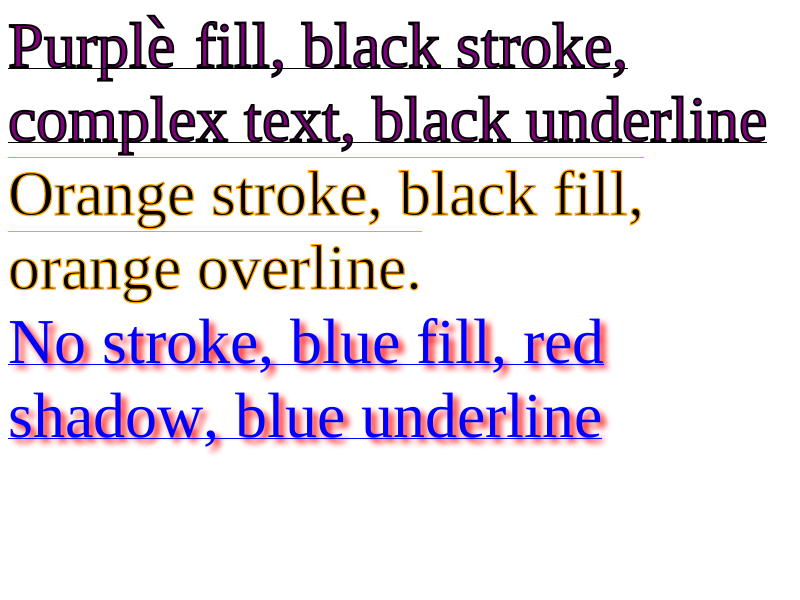
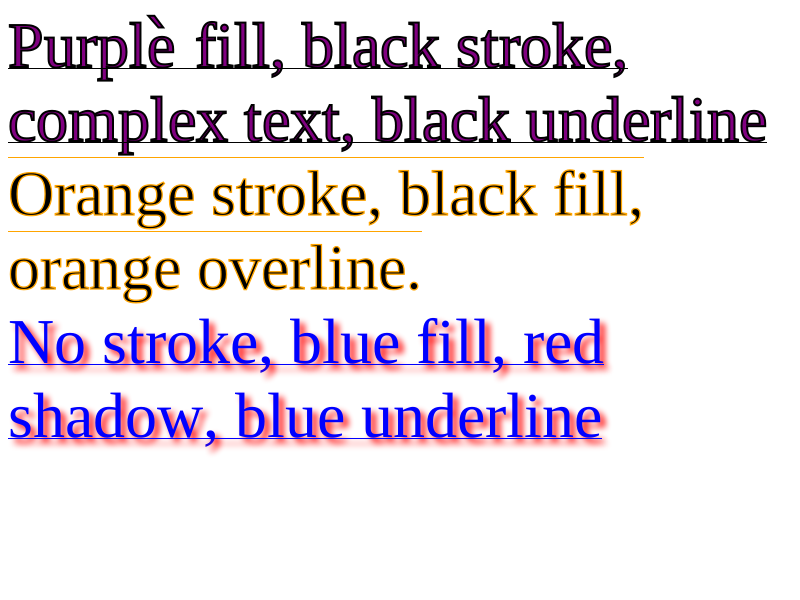
2011-04-28  Martin Robinson  <mrobinson@igalia.com>
Reviewed by Dirk Schulze.

        [Cairo] Text underline is not shadowed when text-shadow is enabled
        https://bugs.webkit.org/show_bug.cgi?id=48074

        Updated pixel results for this test. They were previously incorrect
        because text underlines were not shadowed.

        * platform/gtk/fast/text/stroking-decorations-expected.png:
2011-04-28  Martin Robinson  <mrobinson@igalia.com>

        Reviewed by Dirk Schulze.

        [Cairo] Text underline is not shadowed when text-shadow is enabled
        https://bugs.webkit.org/show_bug.cgi?id=48074

        Use ShadowContext to enable shadows for text underlines. Also remove quite a bit
        of duplicate code in GraphicsContext used for stroking lines. This code looks like it was
        originally copied from the CG GraphicsContext.

        * platform/graphics/GraphicsContext.h: Make adjustLineToPixelBoundaries so that we
          can call it from a static helper function.
        * platform/graphics/cairo/GraphicsContextCairo.cpp:
        (WebCore::calculateStrokePatternOffset): Abstracted this code into a helper.
        (WebCore::drawLineOnCairoContext): Abstracted this code into a helper. We need to
        call it multiple times when shadowing text underlines.
        (WebCore::GraphicsContext::drawLine): Use drawLineOnCairoContext.
        (WebCore::GraphicsContext::strokeArc): Use calculateStrokePatternOffset.
        (WebCore::GraphicsContext::drawLineForText): Use drawLineOnCairoContext.
[…]

diff --git a/Source/WebCore/platform/graphics/cairo/GraphicsContextCairo.cpp b/Source/WebCore/platform/graphics/cairo/GraphicsContextCairo.cpp
@@ -277,95 +277,94 @@ void GraphicsContext::drawRect(const IntRect& rect)
     cairo_restore(cr);
 }
 
-// This is only used to draw borders.
+static double calculateStrokePatternOffset(int distance, int patternWidth)
+{
+    // Example: 80 pixels with a width of 30 pixels. Remainder is 20.
+    // The maximum pixels of line we could paint will be 50 pixels.
+    int remainder = distance % patternWidth;
+    int numSegments = (distance - remainder) / patternWidth;
+
+    // Special case 1px dotted borders for speed.
+    if (patternWidth == 1)
+        return 1;
+
+    bool evenNumberOfSegments = !(numSegments % 2);
+    if (remainder)
+        evenNumberOfSegments = !evenNumberOfSegments;
+
+    if (evenNumberOfSegments) {
+        if (remainder)
+            return (patternWidth - remainder) + (remainder / 2);
+        return patternWidth / 2;
+    }
+
+    // Odd number of segments.
+    if (remainder)
+        return (patternWidth - remainder) / 2.f;
+    return 0;
+}
+
+static void drawLineOnCairoContext(GraphicsContext* graphicsContext, cairo_t* context, const FloatPoint& point1, const FloatPoint& point2)
+{
+    StrokeStyle style = graphicsContext->strokeStyle();
+    if (style == NoStroke)
+        return;
+
+    const Color& strokeColor = graphicsContext->strokeColor();
+    int strokeThickness = floorf(graphicsContext->strokeThickness());
+    if (graphicsContext->strokeThickness() < 1)
+        strokeThickness = 1;
+
+    int patternWidth = 0;
+    if (style == DottedStroke)
+        patternWidth = strokeThickness;
+    else if (style == DashedStroke)
+        patternWidth = 3 * strokeThickness;
+
+    bool isVerticalLine = point1.x() == point2.x();
+    FloatPoint point1OnPixelBoundaries = point1;
+    FloatPoint point2OnPixelBoundaries = point2;
+    GraphicsContext::adjustLineToPixelBoundaries(point1OnPixelBoundaries, point2OnPixelBoundaries, strokeThickness, style);
+
+    cairo_set_antialias(context, CAIRO_ANTIALIAS_NONE);
+    if (patternWidth) {
+        // Do a rect fill of our endpoints.  This ensures we always have the
+        // appearance of being a border.  We then draw the actual dotted/dashed line.
+        FloatRect firstRect(point1OnPixelBoundaries, FloatSize(strokeThickness, strokeThickness));
+        FloatRect secondRect(point2OnPixelBoundaries, FloatSize(strokeThickness, strokeThickness));
+        if (isVerticalLine) {
+            firstRect.move(-strokeThickness / 2, -strokeThickness);
+            secondRect.move(-strokeThickness / 2, 0);
+        } else {
+            firstRect.move(-strokeThickness, -strokeThickness / 2);
+            secondRect.move(0, -strokeThickness / 2);
+        }
+        fillRectSourceOver(context, firstRect, strokeColor);
+        fillRectSourceOver(context, secondRect, strokeColor);
+
+        int distance = (isVerticalLine ? (point2.y() - point1.y()) : (point2.x() - point1.x())) - 2 * strokeThickness;
+        double patternOffset = calculateStrokePatternOffset(distance, patternWidth);
+        double patternWidthAsDouble = patternWidth;
+        cairo_set_dash(context, &patternWidthAsDouble, 1, patternOffset);
+    }
+
+    setSourceRGBAFromColor(context, strokeColor);
+    cairo_set_line_width(context, strokeThickness);
+    cairo_move_to(context, point1OnPixelBoundaries.x(), point1OnPixelBoundaries.y());
+    cairo_line_to(context, point2OnPixelBoundaries.x(), point2OnPixelBoundaries.y());
+    cairo_stroke(context);
+}
+
+// This is only used to draw borders, so we should not draw shadows.
 void GraphicsContext::drawLine(const IntPoint& point1, const IntPoint& point2)
 {
     if (paintingDisabled())
         return;
 
-    StrokeStyle style = strokeStyle();
-    if (style == NoStroke)
-        return;
-
-    cairo_t* cr = platformContext()->cr();
-    cairo_save(cr);
-
-    float width = strokeThickness();
-    if (width < 1)
-        width = 1;
-
-    FloatPoint p1 = point1;
-    FloatPoint p2 = point2;
-    bool isVerticalLine = (p1.x() == p2.x());
-
-    adjustLineToPixelBoundaries(p1, p2, width, style);
-    cairo_set_line_width(cr, width);
-
-    int patWidth = 0;
-    switch (style) {
-    case NoStroke:
-    case SolidStroke:
-        break;
-    case DottedStroke:
-        patWidth = static_cast<int>(width);
-        break;
-    case DashedStroke:
-        patWidth = 3*static_cast<int>(width);
-        break;
-    }
-
-    setSourceRGBAFromColor(cr, strokeColor());
-
-    cairo_set_antialias(cr, CAIRO_ANTIALIAS_NONE);
-
-    if (patWidth) {
-        // Do a rect fill of our endpoints.  This ensures we always have the
-        // appearance of being a border.  We then draw the actual dotted/dashed line.
-        if (isVerticalLine) {
-            fillRectSourceOver(cr, FloatRect(p1.x() - width/2, p1.y() - width, width, width), strokeColor());
-            fillRectSourceOver(cr, FloatRect(p2.x() - width/2, p2.y(), width, width), strokeColor());
-        } else {
-            fillRectSourceOver(cr, FloatRect(p1.x() - width, p1.y() - width/2, width, width), strokeColor());
-            fillRectSourceOver(cr, FloatRect(p2.x(), p2.y() - width/2, width, width), strokeColor());
-        }
-
-        // Example: 80 pixels with a width of 30 pixels.
-        // Remainder is 20.  The maximum pixels of line we could paint
-        // will be 50 pixels.
-        int distance = (isVerticalLine ? (point2.y() - point1.y()) : (point2.x() - point1.x())) - 2*static_cast<int>(width);
-        int remainder = distance%patWidth;
-        int coverage = distance-remainder;
-        int numSegments = coverage/patWidth;
-
-        float patternOffset = 0;
-        // Special case 1px dotted borders for speed.
-        if (patWidth == 1)
-            patternOffset = 1.0;
-        else {
-            bool evenNumberOfSegments = !(numSegments % 2);
-            if (remainder)
-                evenNumberOfSegments = !evenNumberOfSegments;
-            if (evenNumberOfSegments) {
-                if (remainder) {
-                    patternOffset += patWidth - remainder;
-                    patternOffset += remainder / 2;
-                } else
-                    patternOffset = patWidth / 2;
-            } else if (!evenNumberOfSegments) {
-                if (remainder)
-                    patternOffset = (patWidth - remainder) / 2;
-            }
-        }
-
-        double dash = patWidth;
-        cairo_set_dash(cr, &dash, 1, patternOffset);
-    }
-
-    cairo_move_to(cr, p1.x(), p1.y());
-    cairo_line_to(cr, p2.x(), p2.y());
-
-    cairo_stroke(cr);
-    cairo_restore(cr);
+    cairo_t* cairoContext = platformContext()->cr();
+    cairo_save(cairoContext);
+    drawLineOnCairoContext(this, cairoContext, point1, point2);
+    cairo_restore(cairoContext);
 }
 
 // This method is only used to draw the little circles used in lists.
@@ -424,15 +423,13 @@ void GraphicsContext::strokeArc(const IntRect& rect, int startAngle, int angleSp
     if (w != h)
         cairo_scale(cr, 1., reverseScaleFactor);
 
-    float width = strokeThickness();
-    int patWidth = 0;
-
+    int patternWidth = 0;
     switch (strokeStyle()) {
     case DottedStroke:
-        patWidth = static_cast<int>(width / 2);
+        patternWidth = floorf(strokeThickness() / 2.f);
         break;
     case DashedStroke:
-        patWidth = 3 * static_cast<int>(width / 2);
+        patternWidth = 3 * floorf(strokeThickness() / 2.f);
         break;
     default:
         break;
@@ -440,42 +437,15 @@ void GraphicsContext::strokeArc(const IntRect& rect, int startAngle, int angleSp
 
     setSourceRGBAFromColor(cr, strokeColor());
 
-    if (patWidth) {
-        // Example: 80 pixels with a width of 30 pixels.
-        // Remainder is 20.  The maximum pixels of line we could paint
-        // will be 50 pixels.
-        int distance;
+    if (patternWidth) {
+        float distance = 0;
         if (hRadius == vRadius)
-            distance = static_cast<int>((M_PI * hRadius) / 2.0);
+            distance = (piFloat * hRadius) / 2.f;
         else // We are elliptical and will have to estimate the distance
-            distance = static_cast<int>((M_PI * sqrtf((hRadius * hRadius + vRadius * vRadius) / 2.0)) / 2.0);
-
-        int remainder = distance % patWidth;
-        int coverage = distance - remainder;
-        int numSegments = coverage / patWidth;
-
-        float patternOffset = 0.0;
-        // Special case 1px dotted borders for speed.
-        if (patWidth == 1)
-            patternOffset = 1.0;
-        else {
-            bool evenNumberOfSegments = !(numSegments % 2);
-            if (remainder)
-                evenNumberOfSegments = !evenNumberOfSegments;
-            if (evenNumberOfSegments) {
-                if (remainder) {
-                    patternOffset += patWidth - remainder;
-                    patternOffset += remainder / 2.0;
-                } else
-                    patternOffset = patWidth / 2.0;
-            } else {
-                if (remainder)
-                    patternOffset = (patWidth - remainder) / 2.0;
-            }
-        }
-
-        double dash = patWidth;
-        cairo_set_dash(cr, &dash, 1, patternOffset);
+            distance = (piFloat * sqrtf((hRadius * hRadius + vRadius * vRadius) / 2.f)) / 2.f;
+        double patternOffset = calculateStrokePatternOffset(floorf(distance), patternWidth);
+        double patternWidthAsDouble = patternWidth;
+        cairo_set_dash(cr, &patternWidthAsDouble, 1, patternOffset);
     }
 
     cairo_stroke(cr);
@@ -715,10 +685,23 @@ void GraphicsContext::drawLineForText(const FloatPoint& origin, float width, boo
     if (paintingDisabled())
         return;
 
-    FloatPoint endPoint = origin + FloatSize(width, 0);
-    
-    // FIXME: Loss of precision here. Might consider rounding.
-    drawLine(IntPoint(origin.x(), origin.y()), IntPoint(endPoint.x(), endPoint.y()));
+    cairo_t* cairoContext = platformContext()->cr();
+    cairo_save(cairoContext);
+
+    // This bumping of <1 stroke thicknesses matches the one in drawLineOnCairoContext.
+    FloatPoint endPoint(origin + IntSize(width, 0));
+    FloatRect lineExtents(origin, FloatSize(width, strokeThickness()));
+
+    ContextShadow* shadow = contextShadow();
+    ASSERT(shadow);
+    cairo_t* shadowContext = shadow->beginShadowLayer(this, lineExtents);
+    if (shadowContext) {
+        drawLineOnCairoContext(this, shadowContext, origin, endPoint);
+        shadow->endShadowLayer(this);
+    }
+
+    drawLineOnCairoContext(this, cairoContext, origin, endPoint);
+    cairo_restore(cairoContext);
 }
 
 #if !PLATFORM(GTK)

diff --git a/Source/WebCore/platform/graphics/GraphicsContext.h b/Source/WebCore/platform/graphics/GraphicsContext.h
@@ -512,6 +512,8 @@ namespace WebCore {
         void syncSoftwareCanvas();
         void markDirtyRect(const IntRect&); // Hints that a portion of the backing store is dirty.
 
+        static void adjustLineToPixelBoundaries(FloatPoint& p1, FloatPoint& p2, float strokeWidth, StrokeStyle);
+
     private:
         void platformInit(PlatformGraphicsContext*);
         void platformDestroy();
@@ -543,8 +545,6 @@ namespace WebCore {
         void clearPlatformShadow();
 
         void setPlatformCompositeOperation(CompositeOperator);
-
-        static void adjustLineToPixelBoundaries(FloatPoint& p1, FloatPoint& p2, float strokeWidth, StrokeStyle);
 
         GraphicsContextPlatformPrivate* m_data;
 
